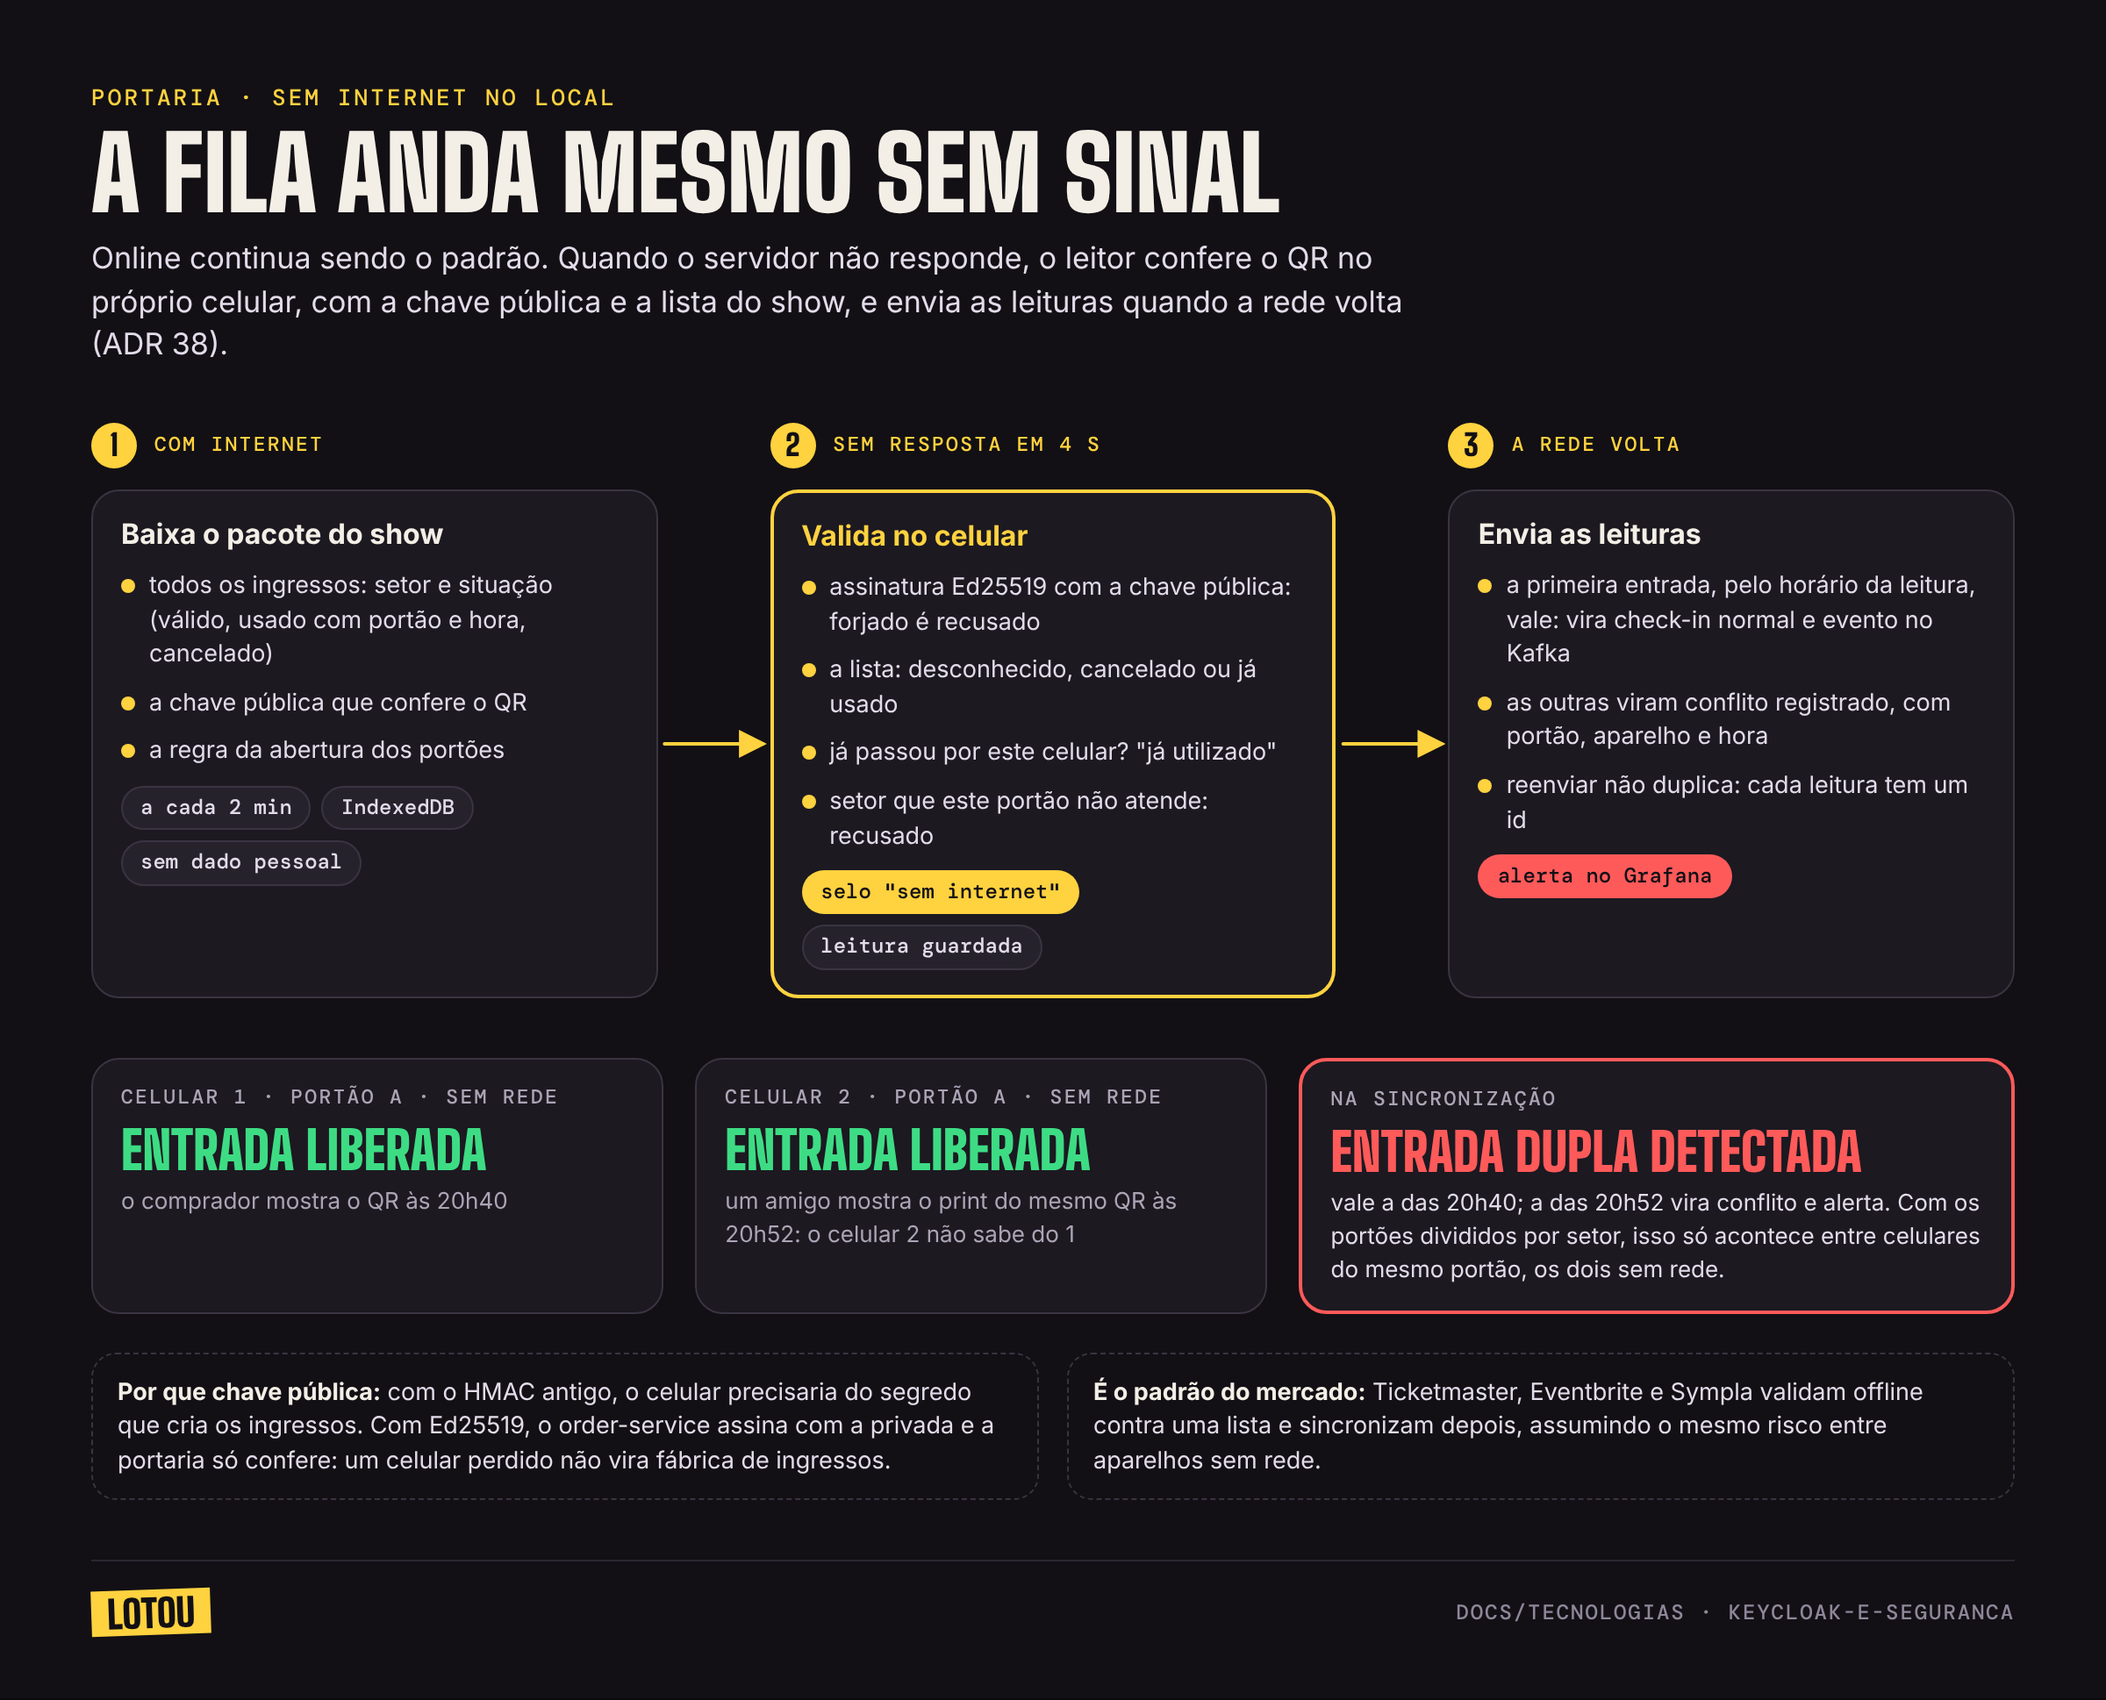
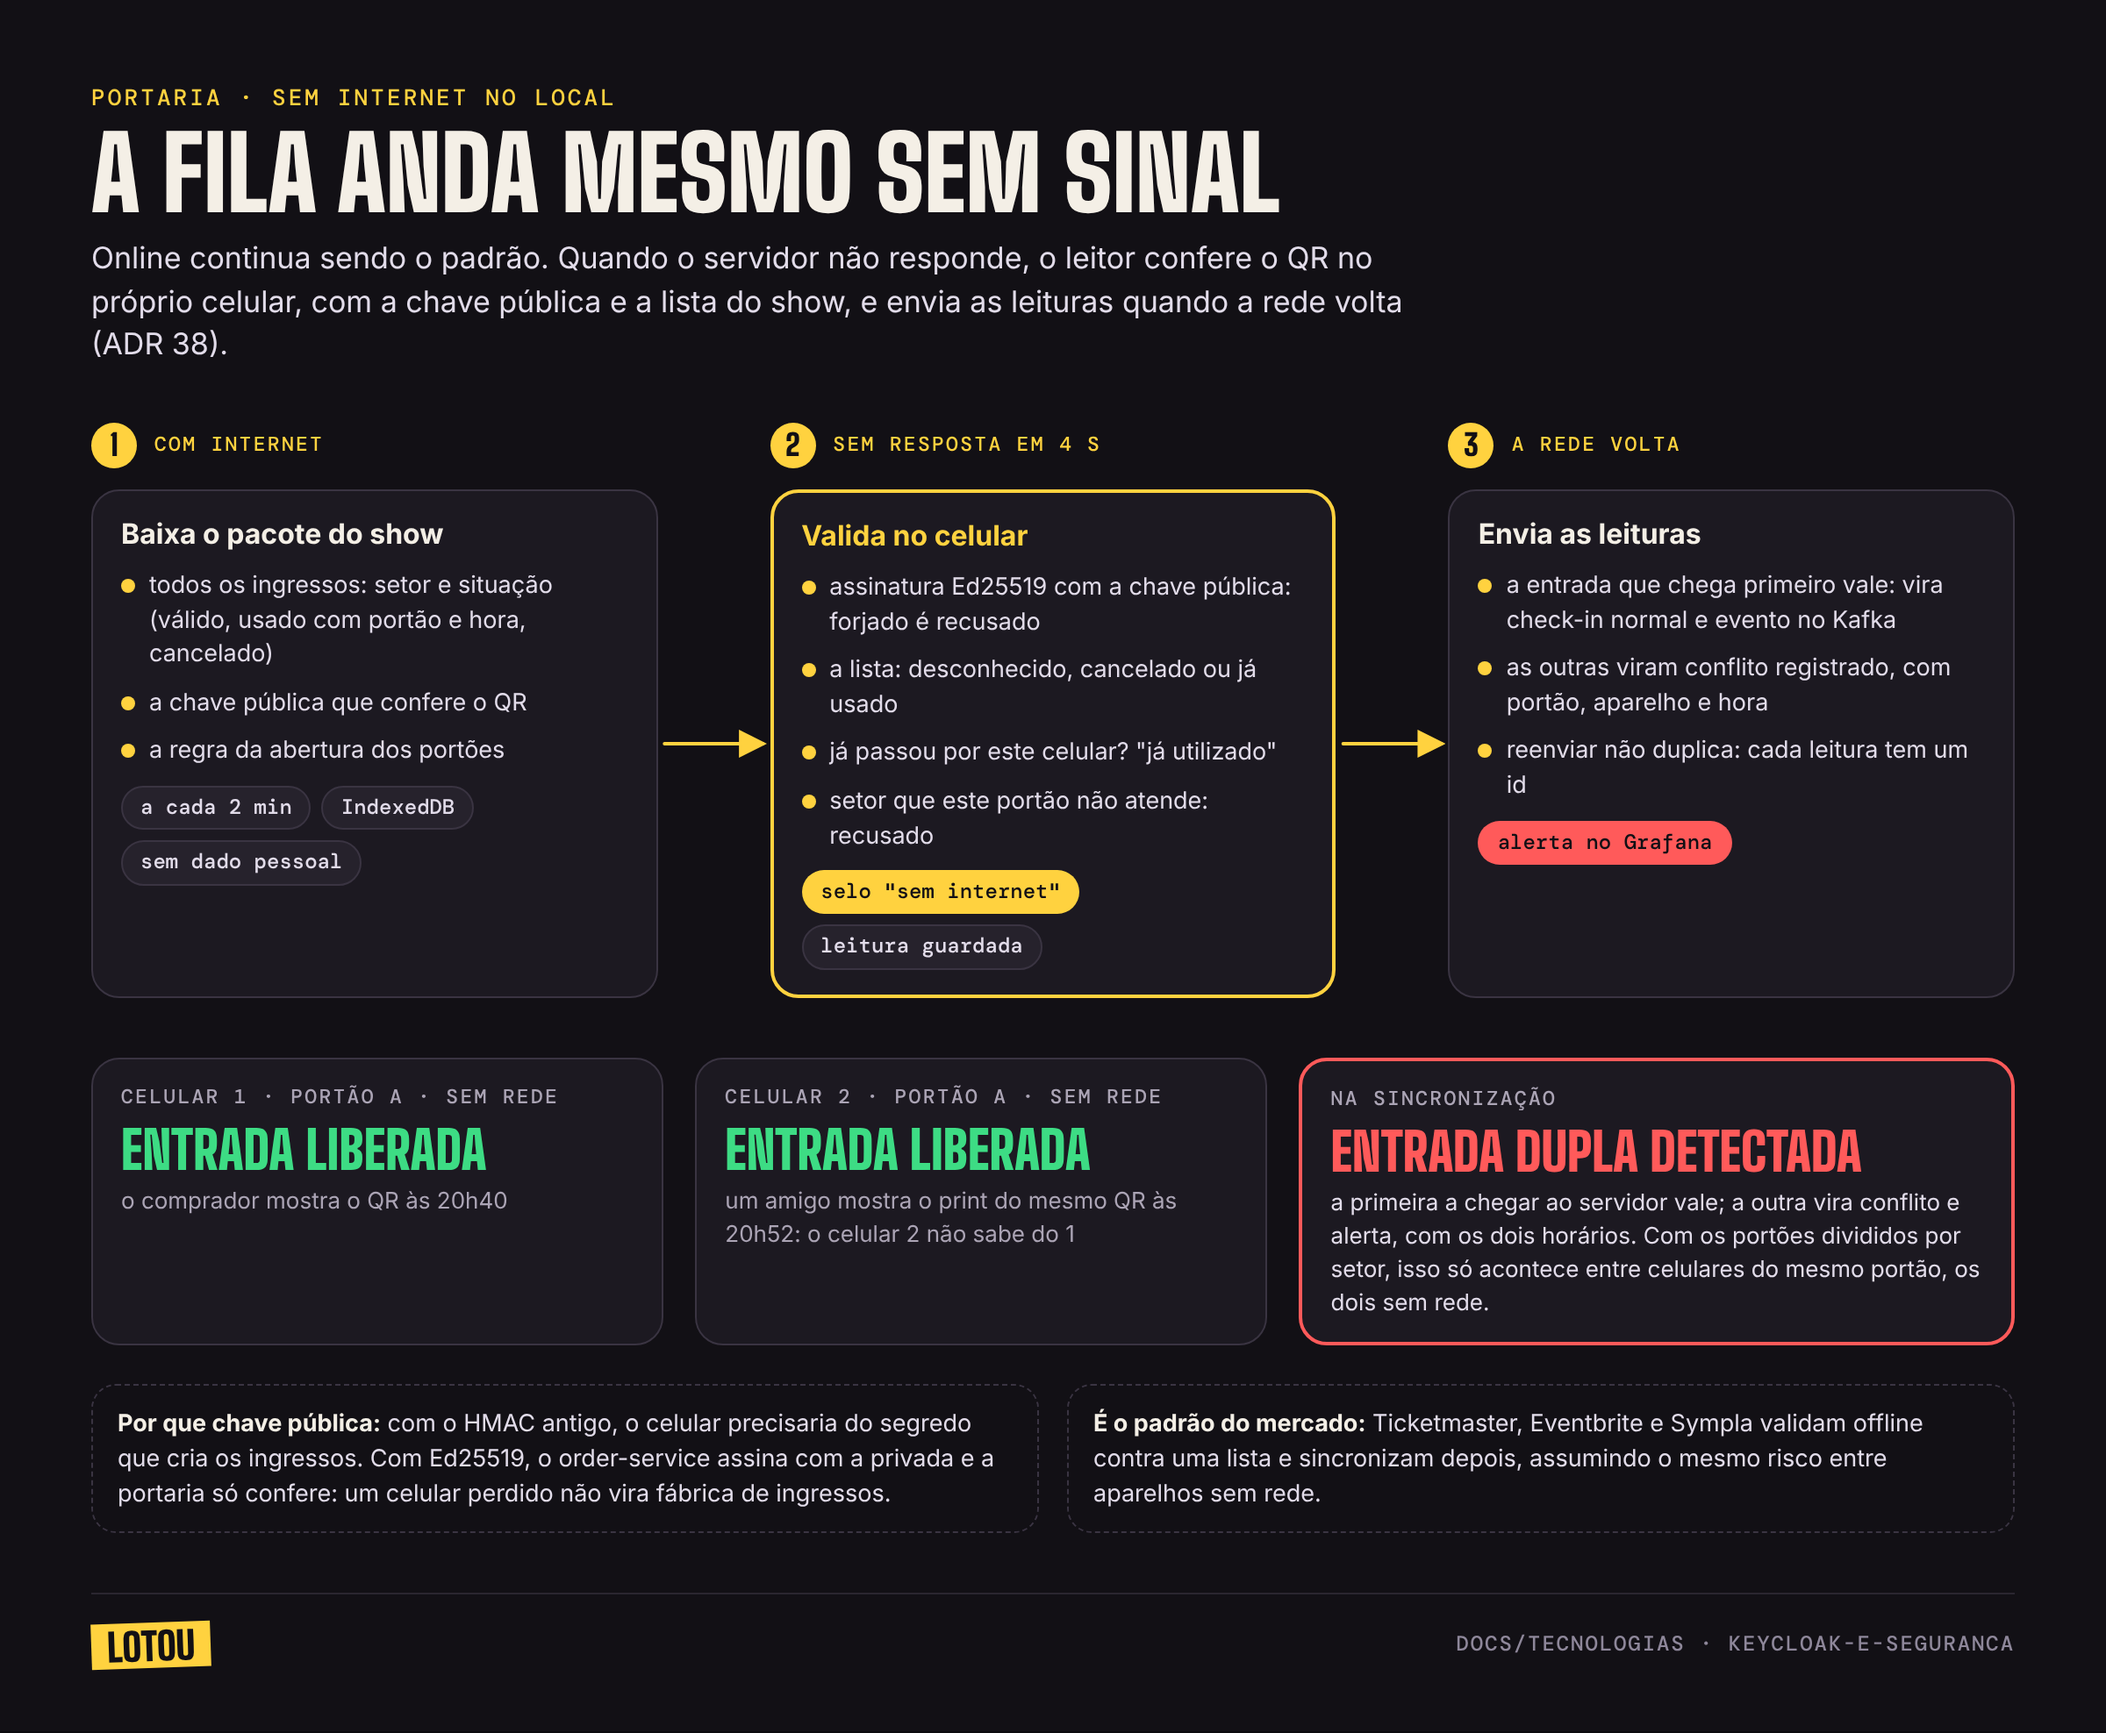
docs: na sincronização da portaria, vale a entrada que chega primeiro

diff --git a/docs/tecnologias/diagramas/portaria-offline.html b/docs/tecnologias/diagramas/portaria-offline.html
@@ -138,7 +138,7 @@
           <div class="node" id="s3">
             <div class="name">Envia as leituras</div>
             <ul class="checks">
-              <li>a primeira entrada, pelo horário da leitura, vale: vira check-in normal e evento no Kafka</li>
+              <li>a entrada que chega primeiro vale: vira check-in normal e evento no Kafka</li>
               <li>as outras viram conflito registrado, com portão, aparelho e hora</li>
               <li>reenviar não duplica: cada leitura tem um id</li>
             </ul>
@@ -166,7 +166,7 @@
           <span class="label">Na sincronização</span>
           <span class="big-result bad">Entrada dupla detectada</span>
           <span style="font-size: 13px; color: var(--text-2)"
-            >vale a das 20h40; a das 20h52 vira conflito e alerta. Com os portões divididos por
+            >a primeira a chegar ao servidor vale; a outra vira conflito e alerta, com os dois horários. Com os portões divididos por
             setor, isso só acontece entre celulares do mesmo portão, os dois sem rede.</span
           >
         </div>

diff --git a/docs/adr/0038-portaria-offline-com-qr-ed25519.md b/docs/adr/0038-portaria-offline-com-qr-ed25519.md
@@ -16,7 +16,7 @@ A entrada dupla é o problema que importa: o mesmo QR entrando duas vezes é uma
 - **QR assinado com Ed25519** (`LOTOU2.<ticketId>.<assinatura>`): o order-service assina com a chave privada; a portaria confere com a pública, no servidor e no aparelho. Quem tem a chave pública não consegue criar ingresso, como nos bilhetes de trem europeus (UIC 918.3). O formato `LOTOU1` (HMAC) continua aceito online, para os ingressos já emitidos; offline, ele vale só se o ingresso estiver na lista do aparelho.
 - **Online continua sendo o padrão.** O leitor só valida no aparelho quando o servidor não responde em 4 s (ou responde 502, 503 ou 504), e avisa na tela que está sem internet.
 - **Pacote offline por show** (`GET /checkins/shows/{showId}/offline-package`): todos os ingressos do show com setor e situação (válido, usado com portão e horário, cancelado), a chave pública e a regra de abertura dos portões. O leitor baixa ao abrir o show e a cada 2 minutos com internet, e guarda no IndexedDB. Não tem dado pessoal.
-- **Leituras offline guardadas no aparelho e enviadas quando a rede volta** (`POST /checkins/offline`, idempotente pelo id de cada leitura). No servidor, a primeira entrada pelo horário da leitura vale e vira um check-in normal, com o `TicketCheckedIn` de sempre; as outras viram um **conflito registrado** (`offline_conflicts`: entrada dupla, ingresso cancelado ou desconhecido), com métrica e alerta no Grafana. O ingresso já entrou: recusar depois não adianta, mas o produtor e a operação ficam sabendo, com portão, aparelho e horário.
+- **Leituras offline guardadas no aparelho e enviadas quando a rede volta** (`POST /checkins/offline`, idempotente pelo id de cada leitura). No servidor, a entrada que chega primeiro vale e vira um check-in normal, com o `TicketCheckedIn` de sempre (dentro de um mesmo envio, a ordem é a do horário da leitura; uma entrada já gravada não é desfeita, porque já foi publicada e já marcou o ingresso como usado); as outras viram um **conflito registrado**, com os dois horários (`offline_conflicts`: entrada dupla, ingresso cancelado ou desconhecido), com métrica e alerta no Grafana. O ingresso já entrou: recusar depois não adianta, mas o produtor e a operação ficam sabendo, com portão, aparelho e horário.
 - **Cada portão pode atender só alguns setores**, escolhidos na configuração do leitor. Offline, o leitor recusa ingresso de outro setor. Com isso, um print repassado só passa duas vezes em aparelhos do mesmo portão, os dois sem rede ao mesmo tempo.
 - **QR que muda fica para depois.** Ele resolve o print, mas exige um segredo no celular do comprador, o que conflita com o ingresso que abre sem internet (ADR 37) e pode ser extraído do aparelho, como já foi feito com o SafeTix.
 

diff --git a/docs/projeto.md b/docs/projeto.md
@@ -555,7 +555,7 @@ A reserva é síncrona porque o comprador precisa saber na hora se garantiu o in
 
 Como a portaria tem sua própria cópia dos ingressos, ela continua funcionando mesmo com o order-service fora do ar.
 
-**Sem internet no local (ADR 38).** Ao abrir o show, o leitor baixa a lista dos ingressos (setor e situação de cada um) e a chave pública, e a atualiza a cada 2 minutos. Se o checkin-service não responde, o leitor confere a assinatura e a lista no próprio aparelho, lembra o que já passou por ele e guarda as leituras. Quando a rede volta, envia tudo: a primeira entrada pelo horário da leitura vale e vira um check-in normal; as outras viram conflito em `offline_conflicts`, com alerta. Os portões divididos por setor limitam a entrada dupla a aparelhos do mesmo portão, os dois sem rede.
+**Sem internet no local (ADR 38).** Ao abrir o show, o leitor baixa a lista dos ingressos (setor e situação de cada um) e a chave pública, e a atualiza a cada 2 minutos. Se o checkin-service não responde, o leitor confere a assinatura e a lista no próprio aparelho, lembra o que já passou por ele e guarda as leituras. Quando a rede volta, envia tudo: a entrada que chega primeiro ao servidor vale e vira um check-in normal (num mesmo envio, pela hora da leitura); as outras viram conflito em `offline_conflicts`, com os dois horários e alerta. Os portões divididos por setor limitam a entrada dupla a aparelhos do mesmo portão, os dois sem rede.
 
 ### Fluxo F: cancelamento e reembolso
 
